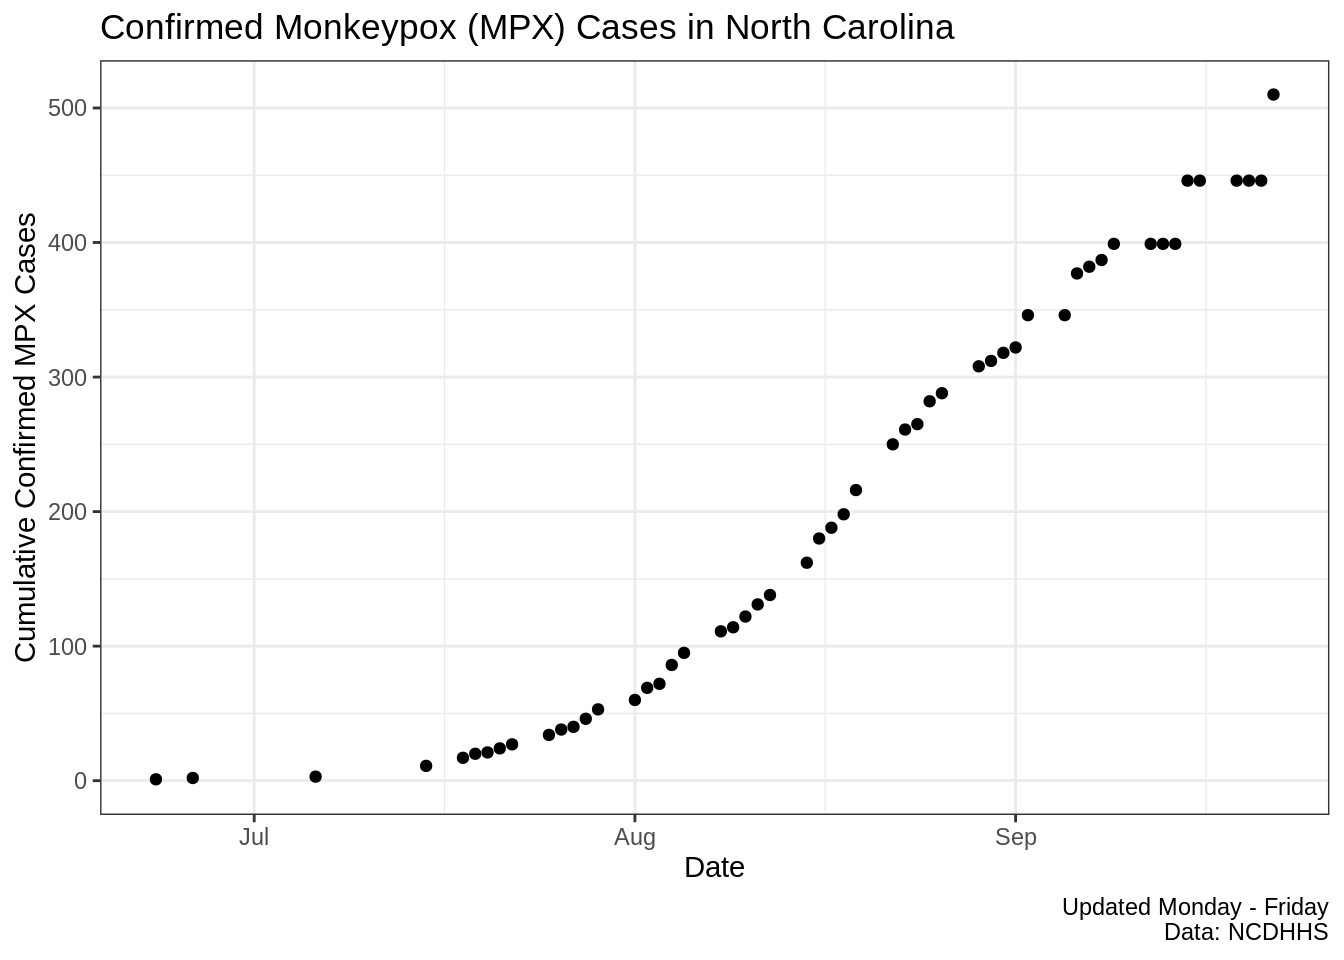
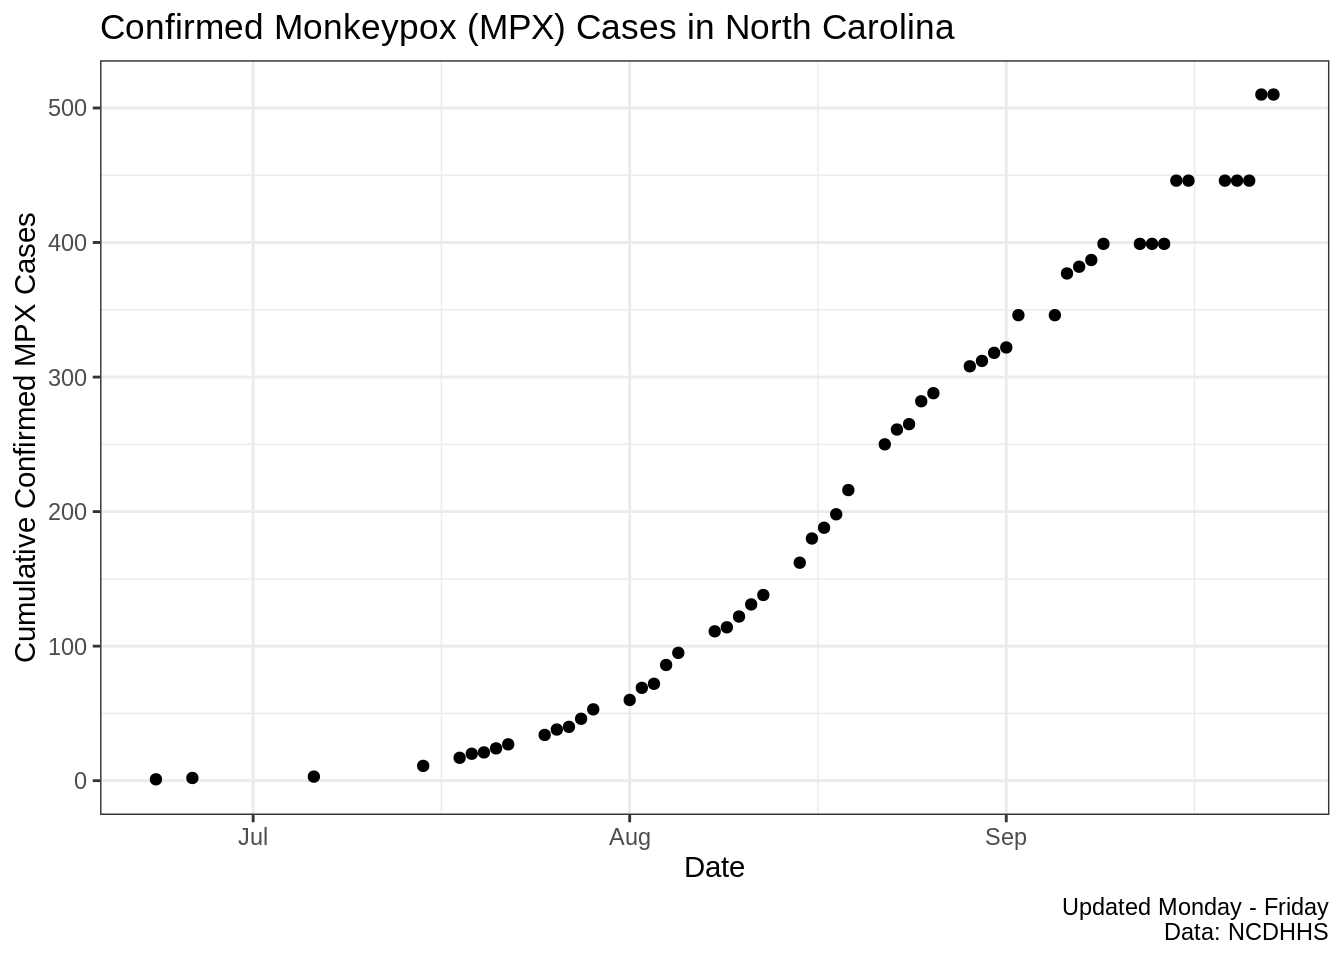
Update the latest data

diff --git a/docs/index.html b/docs/index.html
@@ -139,7 +139,7 @@ ul.task-list li input[type="checkbox"] {
 <div class="cell">
 
 </div>
-<p>These data are current as of 22 September, 2022. Current case incidence suggests a doubling time of 17.7 (95% CI, 16.2-19.5) days.</p>
+<p>These data are current as of 23 September, 2022. Current case incidence suggests a doubling time of 18 (95% CI, 16.5-19.8) days.</p>
 <div class="cell">
 <div class="cell-output-display">
 <p><img src="index_files/figure-html/unnamed-chunk-2-1.png" class="img-fluid" width="672"></p>
